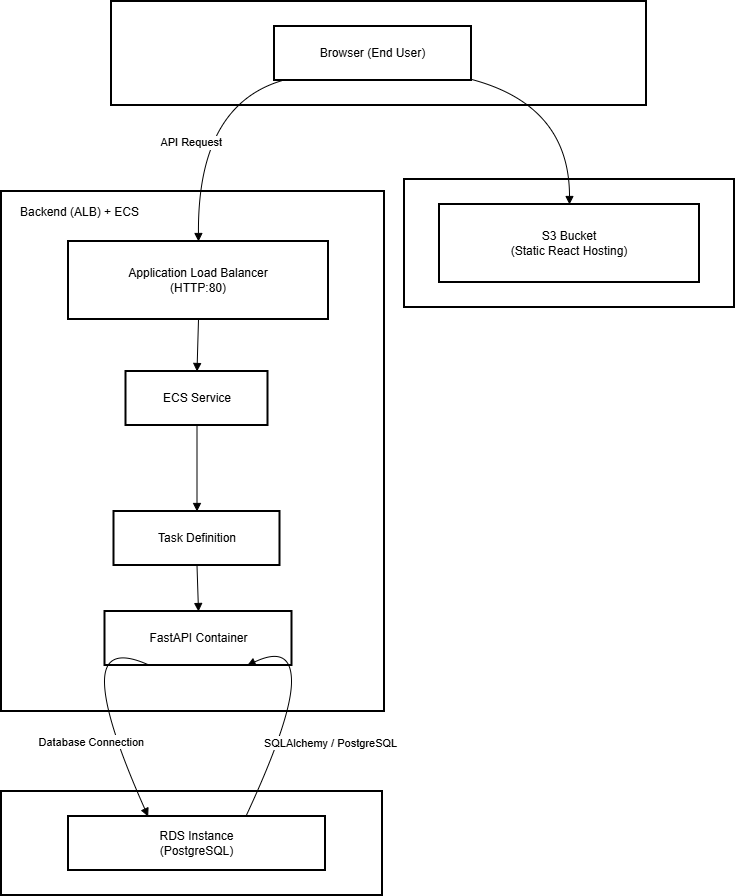
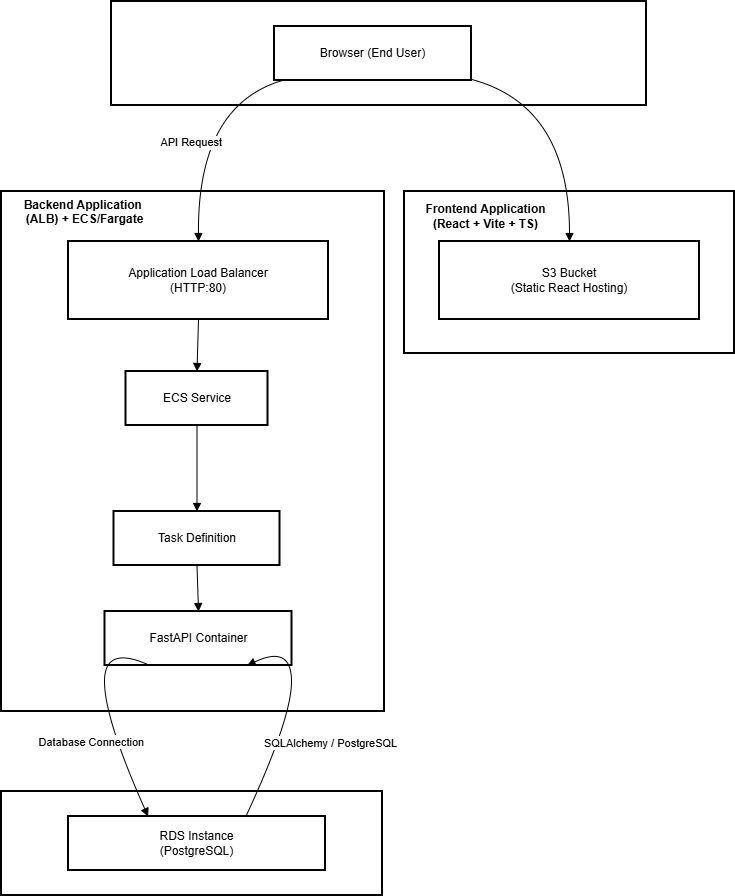
docs: Update README with demo link credentials and refine architecture diagrams
- Add admin credentials notice to Live Demo section in README
- Improve and finalize architecture and deployment diagrams for backend, frontend, and AWS flow
- Update diagram images to reflect latest structural changes
- Enhance documentation with visual aids for project overview

diff --git a/README.md b/README.md
@@ -25,6 +25,11 @@ Perfect for: Clinics, Salons, Consultants, Therapists, Tutoring Services, and an
 Ready to streamline your scheduling process?  
 **[Live Demo](http://scheduleflow-frontend-bucket.s3-website-us-east-1.amazonaws.com/)**  
 
+> **Admin Access:** To test the admin area, use the following credentials:  
+> **Username:** `admin_user`  
+> **Password:** `super_secret_admin_password`
+
+
 **[Contact for Setup](mailto:contact@fmbyteshiftsoftware.com)** *(Schedule a quick setup call)*
 
 
